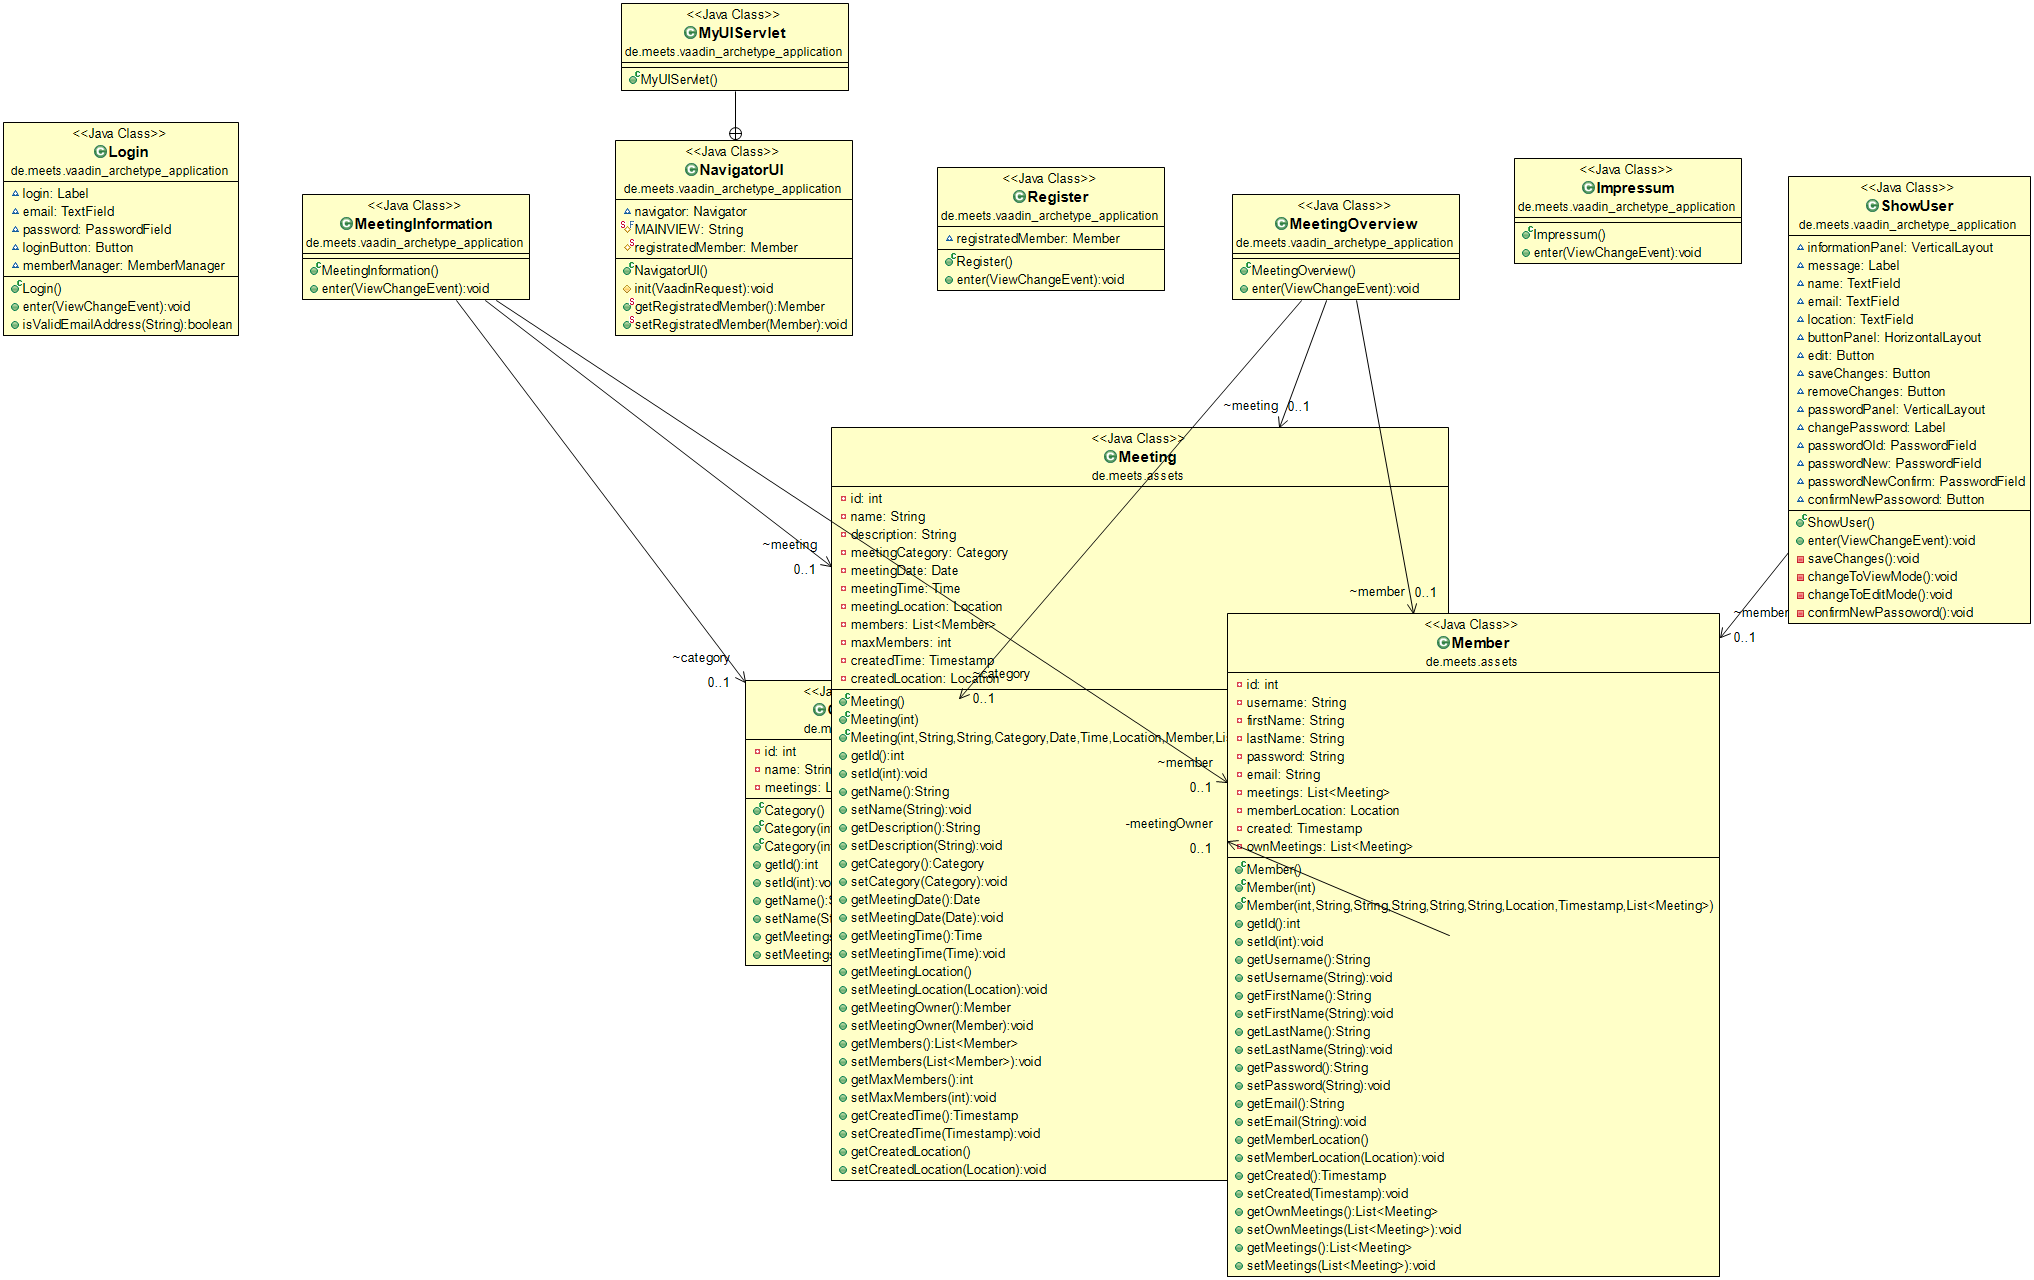
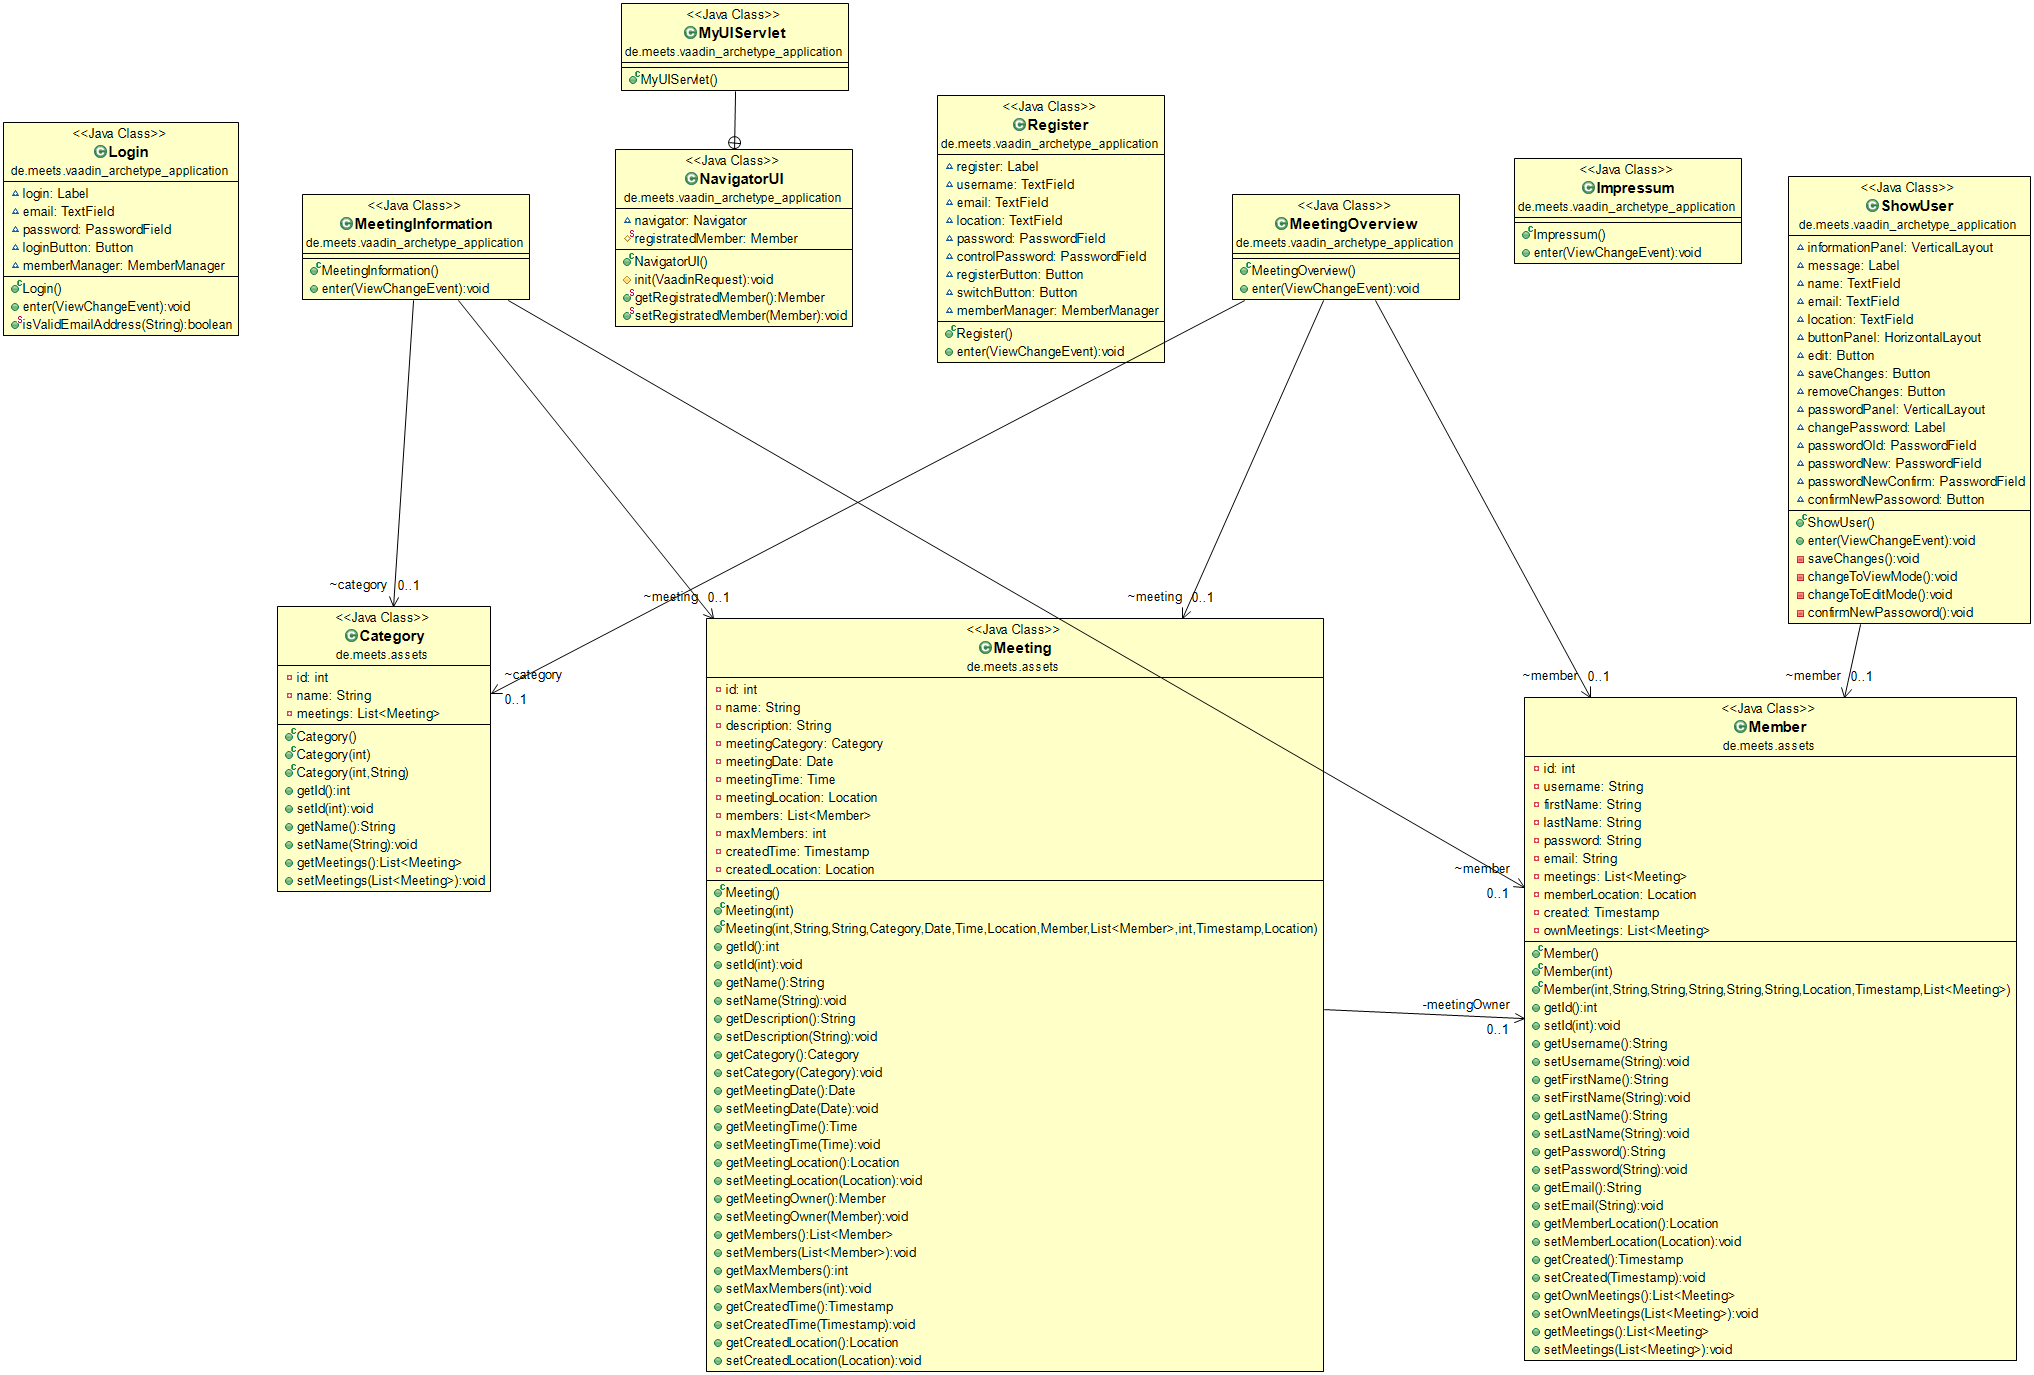
Changes are possible - Location doesn't work

diff --git a/meets/src/main/java/de/meets/vaadin_archetype_application/ShowUser.java b/meets/src/main/java/de/meets/vaadin_archetype_application/ShowUser.java
@@ -1,7 +1,6 @@
 package de.meets.vaadin_archetype_application;
 
 import com.vaadin.navigator.View;
-
 import com.vaadin.navigator.ViewChangeListener.ViewChangeEvent;
 import com.vaadin.ui.Button;
 import com.vaadin.ui.HorizontalLayout;
@@ -10,9 +9,11 @@ import com.vaadin.ui.PasswordField;
 import com.vaadin.ui.TextField;
 import com.vaadin.ui.VerticalLayout;
 
+import de.meets.asset_manager.MemberManager;
 import de.meets.assets.Member;
 
 public class ShowUser extends HorizontalLayout implements View{
+	MemberManager memberManager = new MemberManager();
 	Member member = NavigatorUI.getRegistratedMember();
 	
 	VerticalLayout informationPanel = new VerticalLayout();
@@ -33,11 +34,13 @@ public class ShowUser extends HorizontalLayout implements View{
     PasswordField passwordNewConfirm = new PasswordField("Bestätige neues Passwort");
     Button confirmNewPassoword = new Button("Bestätigen");
     
+    Button deliteUser = new Button("Bnutzer löschen!");
+    
     
 	@Override
 	public void enter(ViewChangeEvent event) {
 		//-------------------- INFORMATION - PANEL --------------------------
-	    //Angaben durch Informationen zu angemedeten Benutzer ersetzen
+	    //Ort Informationen zu angemedeten Benutzer ersetzen
 	    name.setValue(member.getUsername());
 	    email.setValue(member.getEmail());
 	    location.setValue("Dein Ort");
@@ -69,17 +72,23 @@ public class ShowUser extends HorizontalLayout implements View{
 	    
 	    //------------------------ MAIN - PANEL ---------------------------
 	    
-	    this.addComponents(informationPanel, passwordPanel);
+	    deliteUser.addClickListener(e -> {
+	    	memberManager.delete(member);
+	    	getUI().getNavigator().navigateTo("Login");
+	    });
+	    
+	    this.addComponents(informationPanel, passwordPanel, deliteUser);
 	    this.setMargin(true);
 	    this.setSpacing(true);
 	}
 
 	private void saveChanges() {
-		String nameValue = name.getValue();
-		String emailValue = email.getValue();
-		String locationValue = location.getValue();
+		member.setUsername(name.getValue());
+		member.setEmail(email.getValue());
+		String locationValue = location.getValue(); //TODO Location ändern
+		memberManager.alter(member);
 		
-		//TODO Methodenaufruf an SQLAgent, der Änderungen speichert
+		message.setValue("Änderungen gespeichert!");
 	}
 
 	private void changeToViewMode() {
@@ -100,15 +109,21 @@ public class ShowUser extends HorizontalLayout implements View{
 	}
 
 	private void confirmNewPassoword() {
-		String oldPassword = name.getValue();
-		String newPassword = email.getValue();
-		String newPasswordConfirm = location.getValue();
+		String oldPassword = passwordOld.getValue();
+		String newPassword = passwordNew.getValue();
+		String newPasswordConfirm = passwordNewConfirm.getValue();
 		
-		if (newPassword.equals(newPasswordConfirm)){
-			//TODO Stimmt altesPasswort -> speichern
-			
+		if (member.getPassword().equals(oldPassword)){
+			if (newPassword.equals(newPasswordConfirm)){
+				changePassword.setValue("Passwort geändert!");
+				member.setPassword(newPassword);
+				memberManager.alter(member);
+				
+			} else {
+				changePassword.setValue("Neue Passwörter stimmen nicht überein!");
+			}
 		} else {
-			//TODO Fehlermeldung
+			changePassword.setValue("Falsches Passwort!");
 		}
 		
 		passwordOld.setValue("");

diff --git a/meets/src/main/java/de/meets/vaadin_archetype_application/Register.java b/meets/src/main/java/de/meets/vaadin_archetype_application/Register.java
@@ -43,13 +43,14 @@ public class Register extends VerticalLayout implements View{
 	    			Member member = new Member(0, usernameValue, null, null, passwordValue, 
 	    									emailValue, new Location(1), null, null);
 	    			memberManager.add(member);
+	    			NavigatorUI.setRegistratedMember(member);
+	    			getUI().getNavigator().navigateTo("ShowUser");
 	    		} else {
 	    			register.setValue("Bitte geben Sie eine gültige E-Mail Adresse ein!");
 	    		}
 	    	} else {
 	    		register.setValue("Ihre Passwörter stimmen nicht überein");
 	    	}
-//	    	getUI().getNavigator().navigateTo("ShowUser");
 	    });
 	    
         switchButton.addClickListener(listener -> getUI().getNavigator().navigateTo("Login"));
